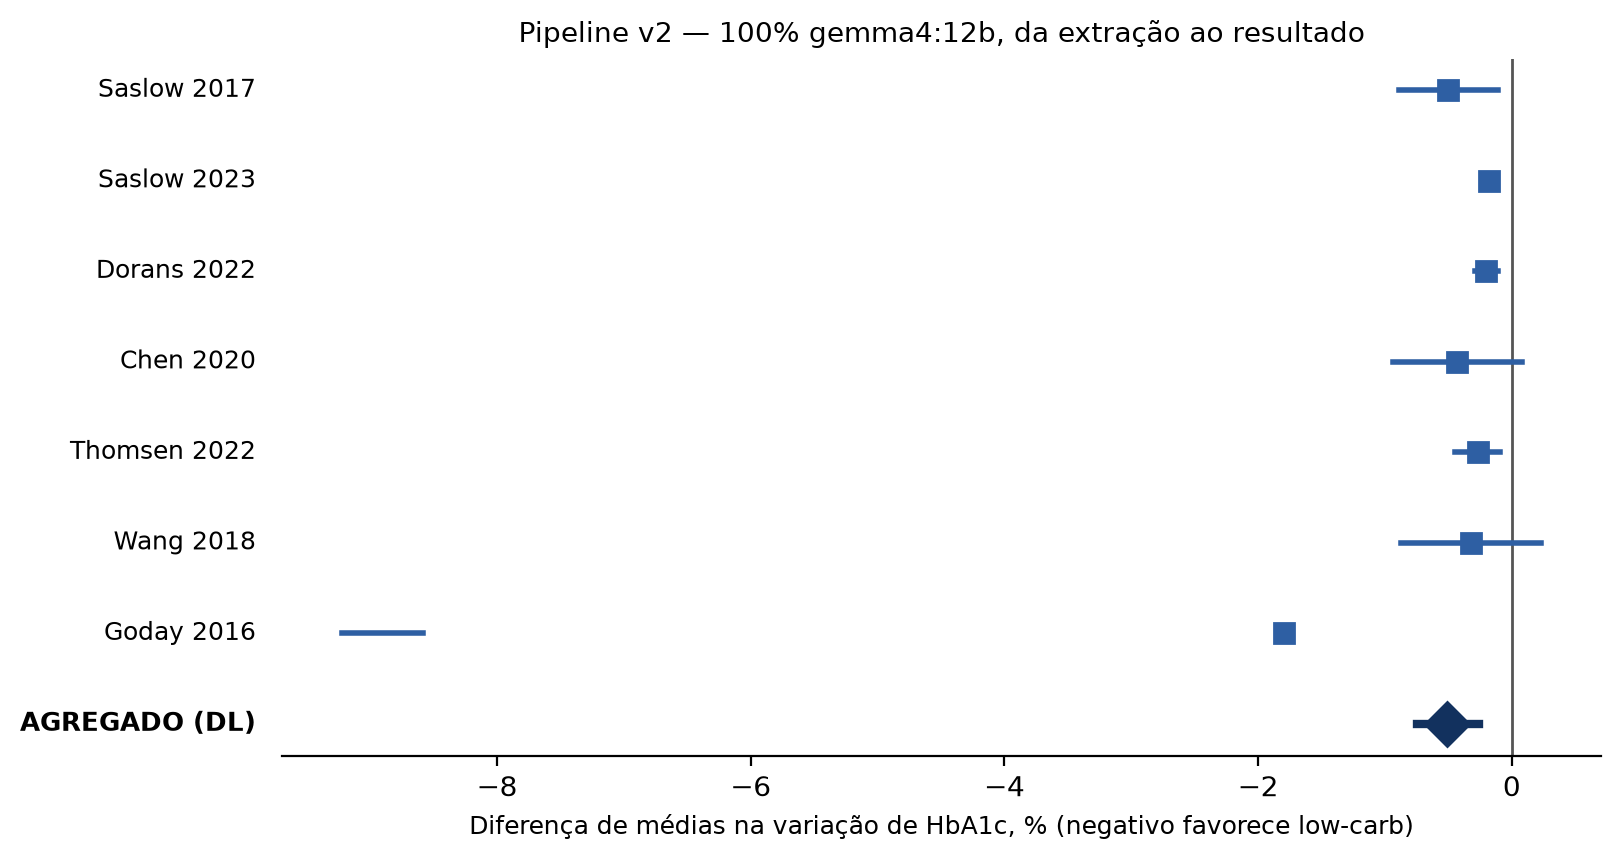
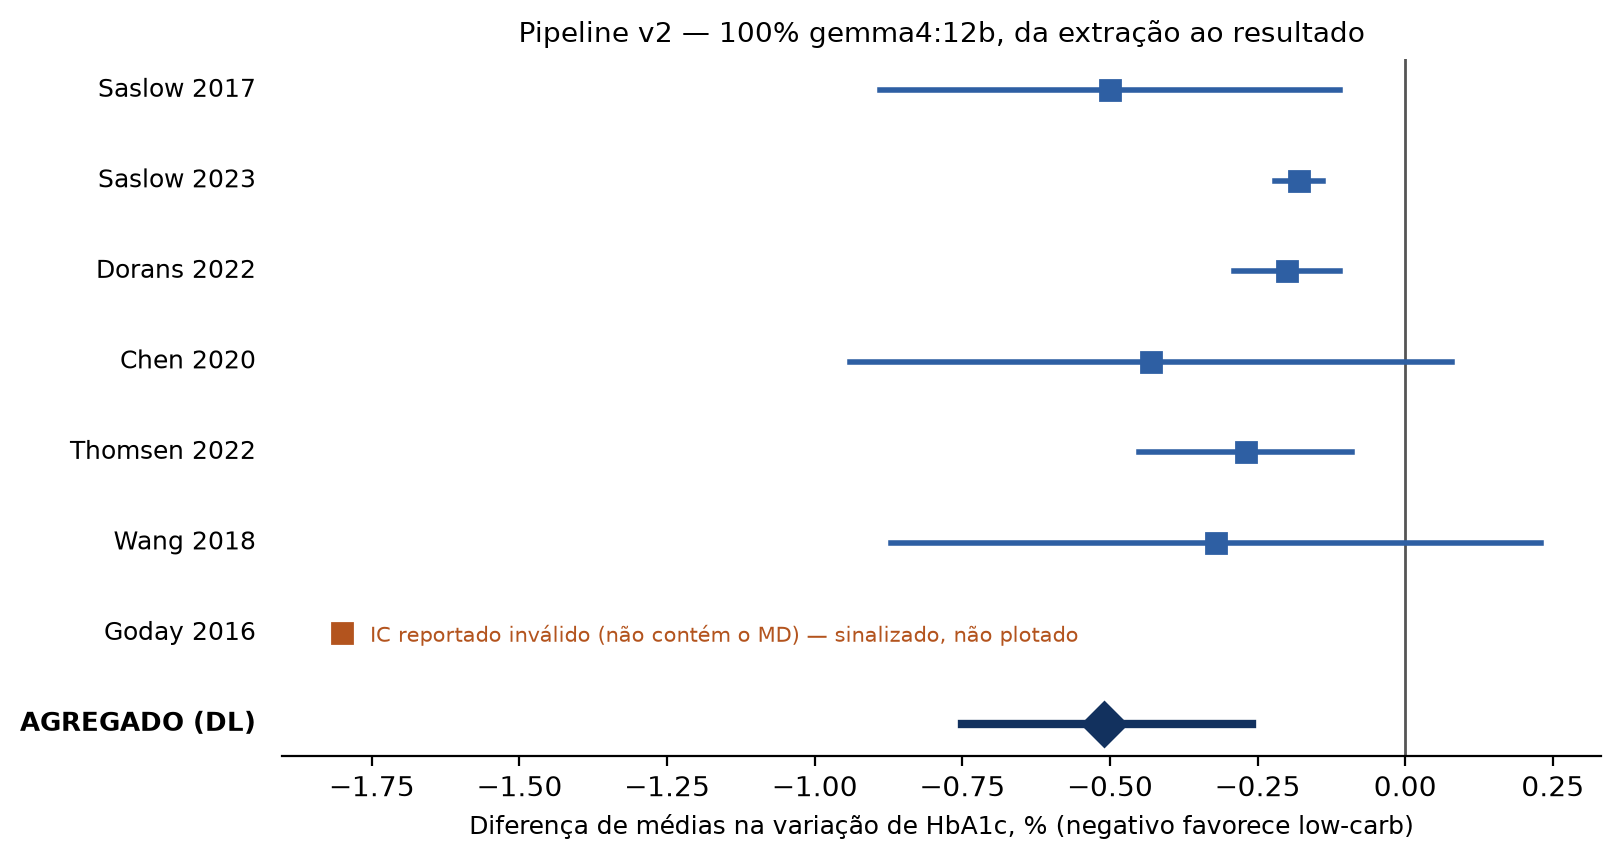
E5-5, caught by the author reading the figure: incoherent CI endorsed by the product
Goday's closing interval [-9.22, -8.58] does not contain its own MD:
the model passed its previous RESULT as one arm's mean inside ic95_md
(provenance declared honestly - 'resultado-anterior' - role wrong
again), and the product layer endorsed the reported final: the forest
plotted it, the synthesis cited it, the orphan scan blind to provided
garbage. Fix at the product layer, detection doctrine intact: a
coherence check (interval must contain its own MD) now flags such
values - the forest marks them invalid instead of plotting, the
synthesis data names them invalid. Successor nets registered in the
roadmap (coherence at call time; role check; flag-never-endorse rule).
Pool untouched throughout (executed-call sextets).

diff --git a/scripts/estudo5/pipeline2-gemma.py b/scripts/estudo5/pipeline2-gemma.py
@@ -156,12 +156,25 @@ def main():
 
     print("\n===== etapa 3+4: totais por codigo e sintese narrativa", flush=True)
     linhas, total_n = [], 0
+    incoerentes = []
     for rot, d in proprios.items():
         s = d["sexteto"]
         n = int(s[2] + s[5])
         total_n += n
         f = d["final"] or {}
-        linhas.append(f"- {rot}: MD {f.get('md')} IC95 {f.get('ic95')} · participantes: {n}")
+        ic = f.get("ic95")
+        # E5-5 coherence check (detection at the product layer): an interval
+        # that does not contain its own MD is flagged, never endorsed.
+        coerente = bool(ic) and f.get("md") is not None and ic[0] - 1e-9 <= f["md"] <= ic[1] + 1e-9
+        if coerente:
+            linhas.append(f"- {rot}: MD {f.get('md')} IC95 {ic} · participantes: {n}")
+        else:
+            incoerentes.append(rot)
+            linhas.append(f"- {rot}: MD {f.get('md')} · IC95 REPORTADO INVALIDO "
+                          f"(o intervalo {ic} nao contem o proprio MD; nao usar) · participantes: {n}")
+        d["coerente"] = coerente
+    if incoerentes:
+        print(f"  ICs reportados incoerentes (sinalizados, nunca endossados): {incoerentes}", flush=True)
     ag = pool_reg.get("final") or pool_reg["pool_sobre_os_proprios_sextetos"]
     i2 = pool_reg["pool_sobre_os_proprios_sextetos"].get("i2_pct")
     dados = ("AGREGADO (DerSimonian-Laird): MD " + str(ag.get("md")) + " IC95 " + str(ag.get("ic95"))
@@ -187,9 +200,14 @@ def main():
     for i, (rot, d) in enumerate(ordem):
         f = d["final"] or {}
         y = len(ordem) - i
-        if f.get("ic95"):
+        if d.get("coerente"):
             ax.plot(f["ic95"], [y, y], color="#2e5fa3", lw=2)
             ax.plot(f.get("md"), y, "s", ms=7, color="#2e5fa3")
+        elif f.get("md") is not None:
+            ax.plot(f["md"], y, "s", ms=7, color="#b3541e")
+            ax.annotate("IC reportado inválido (não contém o MD) — sinalizado, não plotado",
+                        (f["md"], y), xytext=(10, -3), textcoords="offset points",
+                        fontsize=7.6, color="#b3541e")
         ax.text(-0.02, y, rot, ha="right", va="center", fontsize=9, transform=ax.get_yaxis_transform())
     ax.plot(ag["ic95"], [0, 0], color="#12315e", lw=3)
     ax.plot(ag["md"], 0, "D", ms=11, color="#12315e")

diff --git a/ROADMAP-HARNESS.md b/ROADMAP-HARNESS.md
@@ -10,6 +10,8 @@ The prioritized instrument backlog distilled from Studies 1–5. Rule of admissi
 | 2 | **Schema-constrained extraction** (Ollama `format` also at Stage E): numeric fields typed as numbers, text fields bounded. | Kills by construction: chain-of-thought written into a form field (qwen3.5:9b), `±`-prefixed values that break parsers, malformed dispersion cells — and with well-formed sheets, the engine/grader parser divergence (E4-4) loses its object | [Round-2 record](dados/estudo4/rodada2/avaliacao-rodada2.md) · [Study-5 G2b](dados/estudo5/avaliacao-estudo5.md) |
 | 3 | **Declarable-derivation net**: when an argument's declared source is "derivado", the model declares the operation and operands (`final − basal` of which fields); the harness checks the arithmetic of the declaration itself and warns on mismatch. **Measured outcome (pipeline v2): never engaged — the model declared the TRUE source fields of values placed in the WRONG role.** Successor net registered: a **role check** — an m-slot fed from a `*_final_media`/`*_basal_media` field draws a warning (provenance nets verify origin, not role). | The last measured per-study frontier: levels-passed-as-changes on Goday ($-1.8$ vs $-1.9$), invisible to provenance checks because the provenance is honest | [Study-5 evaluation §8](dados/estudo5/avaliacao-estudo5.md) |
 
+**Successors from pipeline v2's measured outcomes (author-caught erratum E5-5)**: a **coherence net** — an interval that does not contain its own MD is mechanically impossible and draws a warning at the call and at the closing answer; and the **product rule** — the assembly layer (forest, synthesis data) flags incoherent reported values, never endorses them (implemented in pipeline v2's corrected product).
+
 ## Priority 2 — structural guards
 
 4. **Unit field + mixed-unit refusal**: a mandatory `unidade` per numeric block on the sheet; the engine warns and counts (never silently converts) when a pool would mix units. — Targets the mmol/mol chimera that wrecked Thomsen's row for two models ([adjudications](dados/estudo4/rodada2/correcao/adjudicacoes.json)).

diff --git a/dados/estudo5/avaliacao-estudo5.md b/dados/estudo5/avaliacao-estudo5.md
@@ -56,6 +56,7 @@ The author ordered the roadmap's Priority-1 items applied and the whole pipeline
 - **Anti-invention net (roadmap #1): armed, zero triggers** — none of gemma12's fresh numbers is absent from the source text. The net exists for the invention class measured in other models (llama3.1:8b); on this extractor there was nothing to catch, which is itself the measurement.
 - **Derivation net (roadmap #3): never engaged — and that is the finding.** The model dodged it honestly: on Goday it declared the TRUE source fields (`hba1c_final_media`) of values placed in the WRONG role (levels passed as means; $-1.8$ persists, plus one garbage closing CI $[-9.22, -8.58]$ that never touched the pool, which uses the executed call's sextet). Provenance-checking nets verify **where a value came from, not what role it may play** — the precise next net is a ROLE check: an m-slot fed from a `*_final_media` field draws a warning. Registered in the roadmap.
 - Cells of the fresh sheets: 184/206 (89.3\%) pre-adjudication — run-to-run route variation, zero inventions; extraction remains the quality bound.
+- **E5-5 — caught by the AUTHOR reading the figure** (the human-in-the-loop catch the design invites): Goday's closing interval $[-9.22, -8.58]$ does not contain its own MD ($-1.8$) — the model had passed its previous RESULT as one arm's mean inside `ic95_md` (declared provenance honest: "resultado-anterior"; role wrong again) — and the product layer (forest and synthesis DADOS) endorsed the reported final as-is: the forest plotted it and the synthesis cited it, with the orphan scan blind to provided garbage. Three successor nets registered: a **coherence check** (an interval must contain its own MD — mechanically detectable, warning at the call and at the product); the already-registered **role check**; and the rule that the **product layer flags incoherent reported values, never endorses them** (implemented; the corrected forest marks Goday's interval as invalid instead of plotting it). The pool was never touched (it uses executed-call sextets).
 
 ## 9. Standing
 

diff --git a/dados/estudo5/pipeline2/sintese.md b/dados/estudo5/pipeline2/sintese.md
@@ -1,5 +1,5 @@
 # Síntese do pipeline v2 (100% gemma4:12b)
 
-A análise dos dados resultou em um efeito agregado de MD -0,51 (IC95 [-0,75, -0,26]), indicando uma redução superior nos níveis de HbA1c no braço experimental. A heterogeneidade entre os estudos foi elevada, com I² de 94,0%.
+A análise de metanálise incluiu 7 estudos com um total de 493 participantes para avaliar o efeito sobre os níveis de HbA1c. O efeito agregado (modelo DerSimonian-Laird) apresentou uma diferença média (MD) de -0,51 [IC95: -0,75, -0,26], indicando uma redução nos níveis de HbA1c no braço experimental. Observou-se uma alta heterogeneidade estatística entre os estudos (I² = 94,0%).
 
-Foram incluídos 7 estudos com um total de 493 participantes. A análise individual dos estudos revelou comportamentos distintos em relação ao valor nulo (zero). Os estudos de Saslow 2017 (MD -0,5; IC95 [-0,89, -0,11]), Saslow 2023 (MD -0,18; IC95 [-0,22, -0,14]), Dorans 2022 (MD -0,2; IC95 [-0,29, -0,11]), Thomsen 2022 (MD -0,27; IC95 [-0,45, -0,09]) e Goday 2016 (MD -1,8; IC95 [-9,22, -8,58]) apresentaram intervalos de confiança que não cruzaram o zero. Em contraste, os estudos de Chen 2020 (MD -0,43; IC95 [-0,94, 0,08]) e Wang 2018 (MD -0,32; IC95 [-0,87, 0,23]) apresentaram intervalos de confiança que cruzaram o zero.
+Ao analisar os resultados individuais, os estudos de Saslow 2017 (MD -0,5 [IC95: -0,89, -0,11]), Saslow 2023 (MD -0,18 [IC95: -0,22, -0,14]), Dorans 2022 (MD -0,2 [IC95: -0,29, -0,11]) e Thomsen 2022 (MD -0,27 [IC95: -0,45, -0,09]) apresentaram intervalos de confiança que não cruzaram o zero, demonstrando significância estatística individual. Por outro lado, os estudos de Chen 2020 (MD -0,43 [IC95: -0,94, 0,08]) e Wang 2018 (MD -0,32 [IC95: -0,87, 0,23]) apresentaram intervalos de confiança que cruzaram o zero. O estudo de Goday 2016 (MD -1,8) não pôde ser incluído no cálculo do intervalo de confiança devido a dados reportados inválidos.
